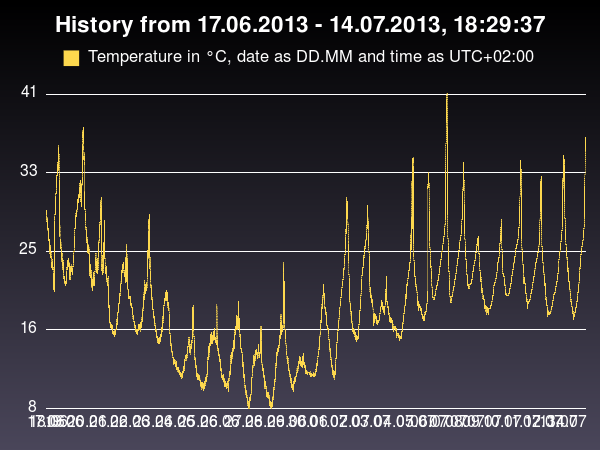
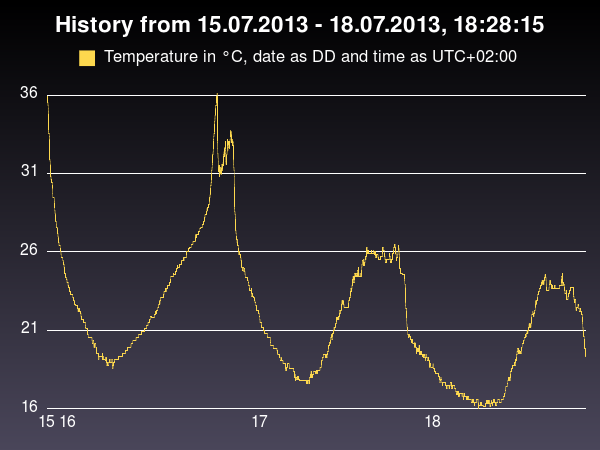
minor changes in gruff.rb

diff --git a/gruff.rb b/gruff.rb
@@ -22,19 +22,19 @@ graph_date          = Hash.new()
 date_compare        = ''
 i                   = 0
 
-puts 'Starting: ' + SOFTWARE_NAME + ' ' + SOFTWARE_VERSION
-puts 'According to the file...'
+puts SOFTWARE_NAME + ' ' + SOFTWARE_VERSION
 puts 'Start date: ' + start_date
 puts 'End date  : ' + date
-puts 'Starting calculations...'
+print 'Starting calculations...'
 
 CSV.foreach(actual_file) do |row|
+  next if row[2].to_f >= 38.0
   i += 1
   @total_readings = i
   next if i.odd?
   if row[0] != date_compare
-    tmp_date = row[0][5..-1].split('.').reverse.join('.')
-    p tmp_date
+    tmp_date = row[0][8..-1] #[5..-1].split('.').reverse.join('.')
+    print '.'
     graph_date.merge!(Hash[i/2, tmp_date])
     date_compare = row[0]
   end
@@ -42,18 +42,19 @@ CSV.foreach(actual_file) do |row|
 #  break if i == 1000
 end
 
-puts 'Days calculated.'
-puts 'Generating chart...'
+puts ' Done.'
+print 'Generating chart...'
 
 g = Gruff::Line.new(600)
+g.hide_dots = true
 g.title_font_size = 30
 g.legend_font_size = 22
 g.title = 'History from ' + start_date.split('.').reverse.join('.') + ' - ' + date.split('.').reverse.join('.') + ', ' + time
-g.data('Temperature in °C, date as DD.MM and time as UTC+02:00', temp_celcius)
+g.data('Temperature in °C, date as DD and time as UTC+02:00', temp_celcius)
 g.labels = graph_date
 g.write('public/temperature_celcius_chart.png')
 
-puts 'Chart is ready.'
+puts ' Done.'
 
 statistics = File.open(statistics_file, 'w+')
 statistics.puts(@total_readings)
